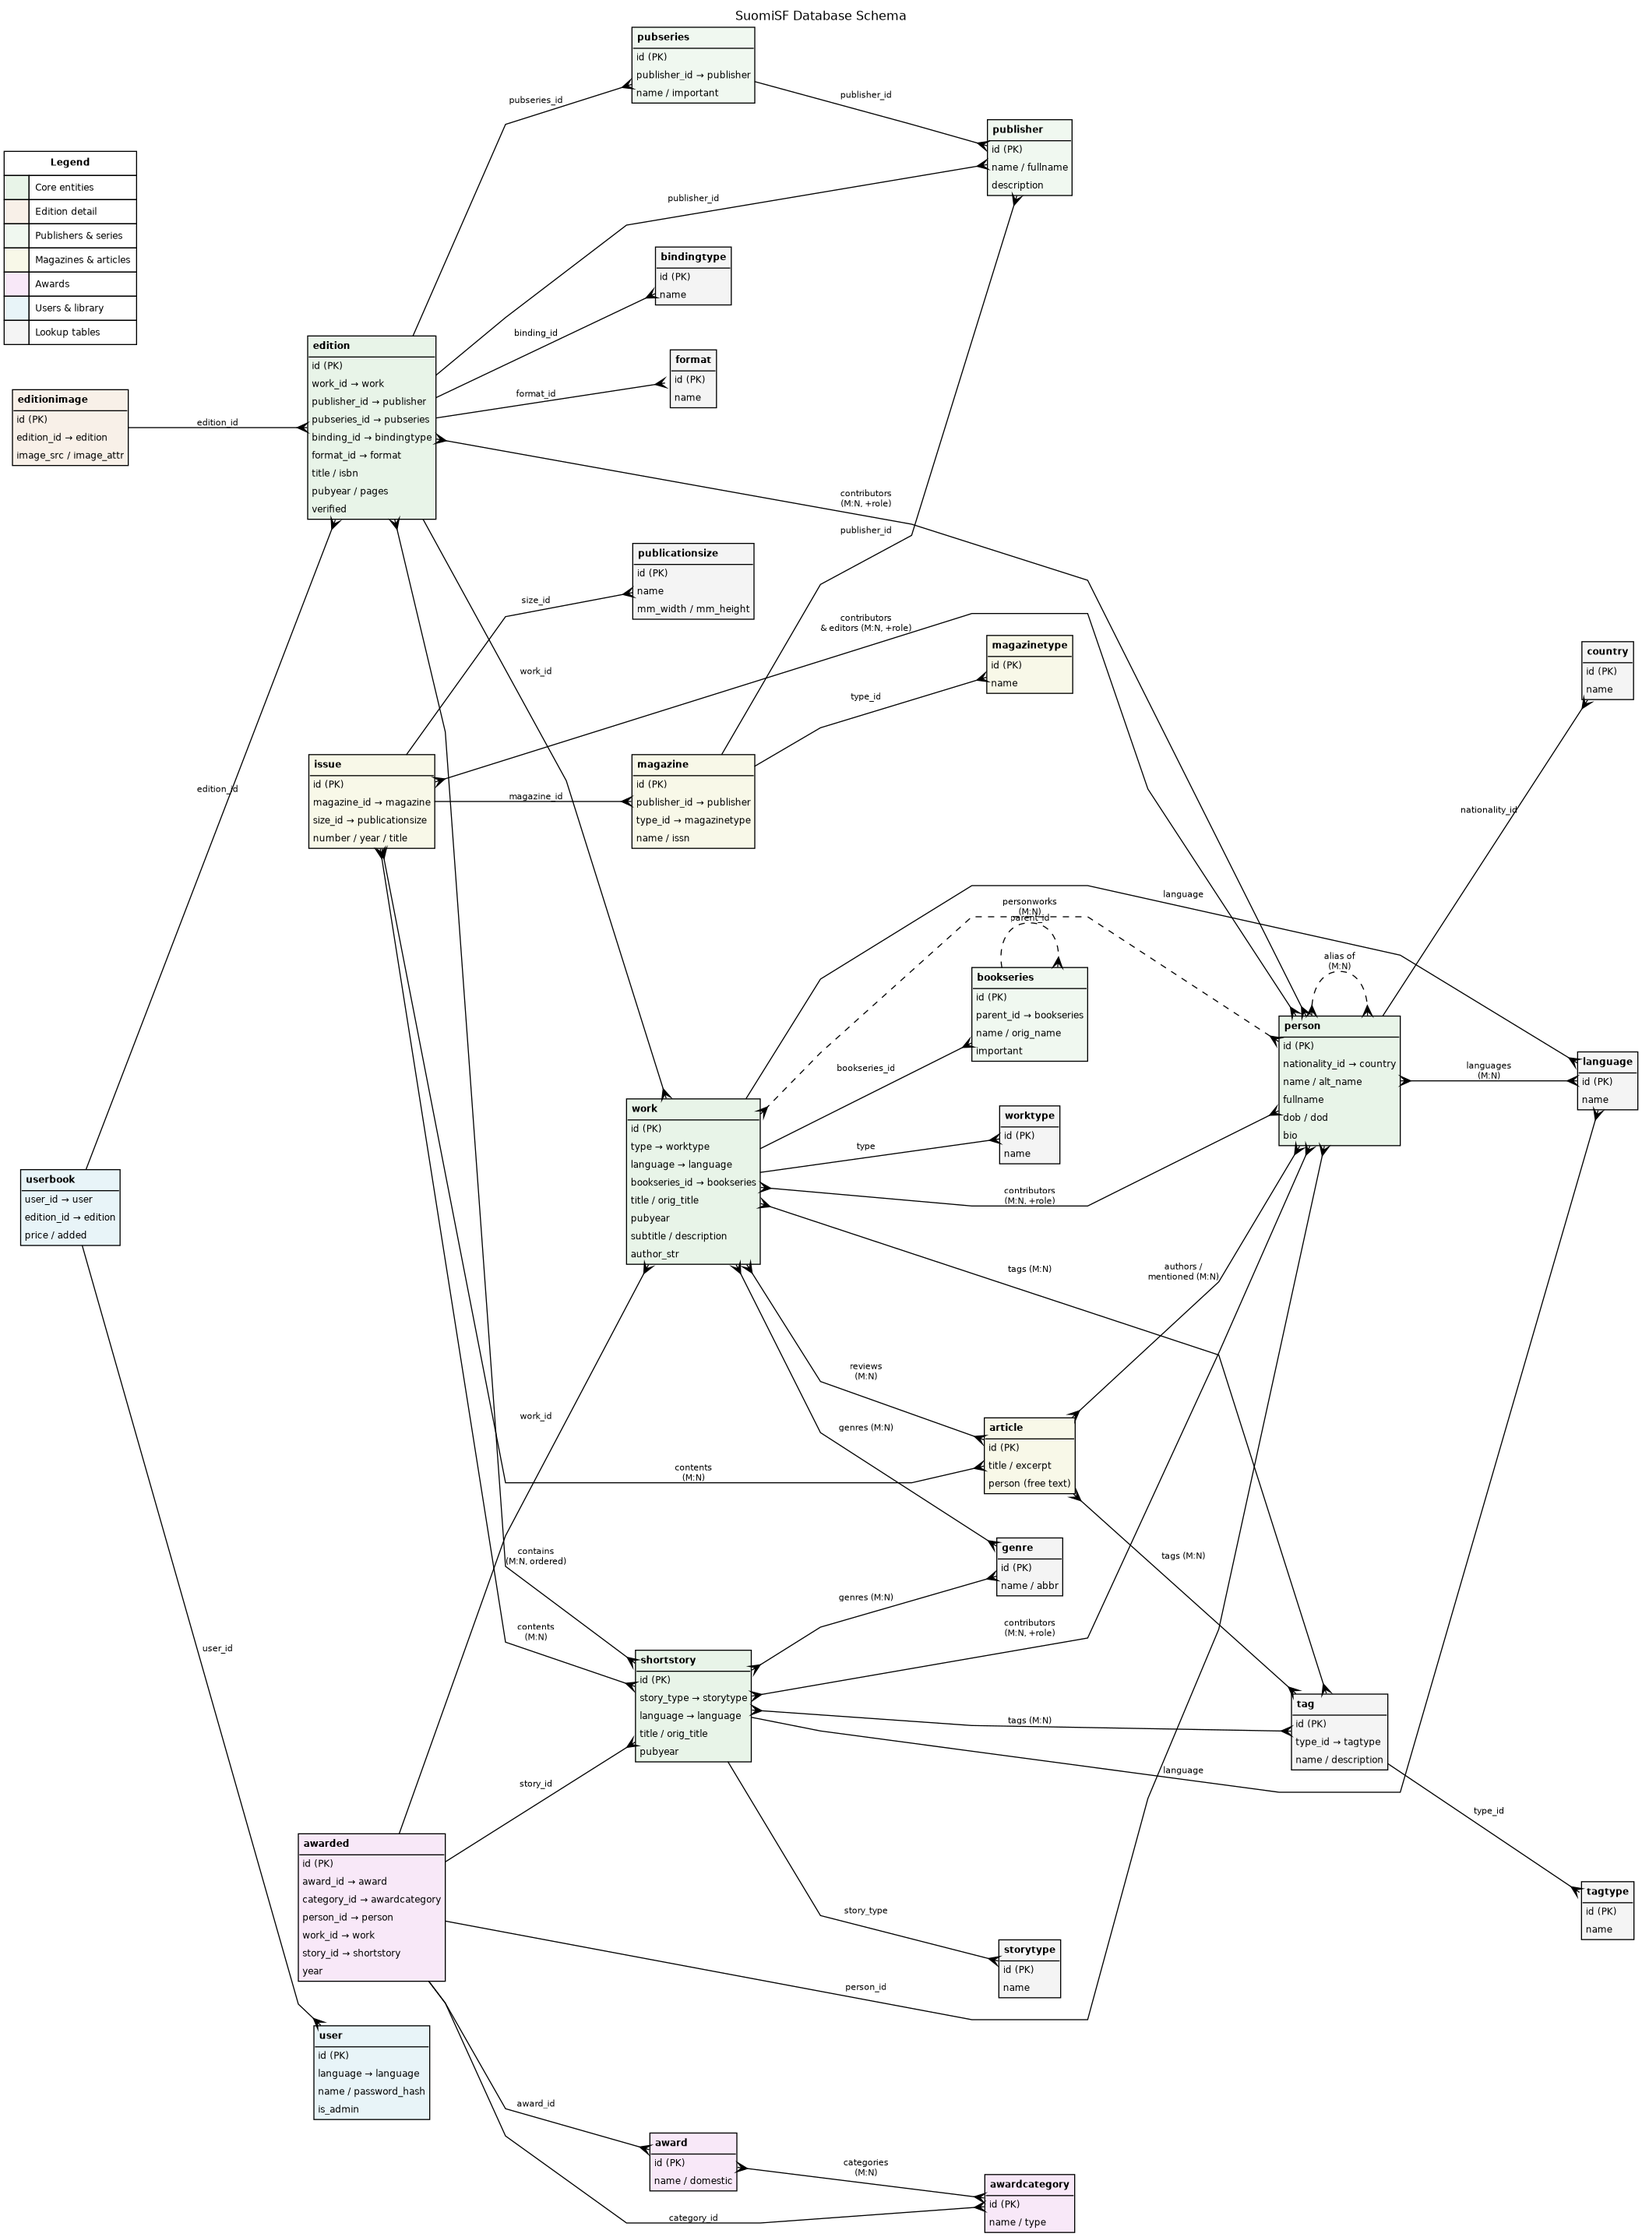
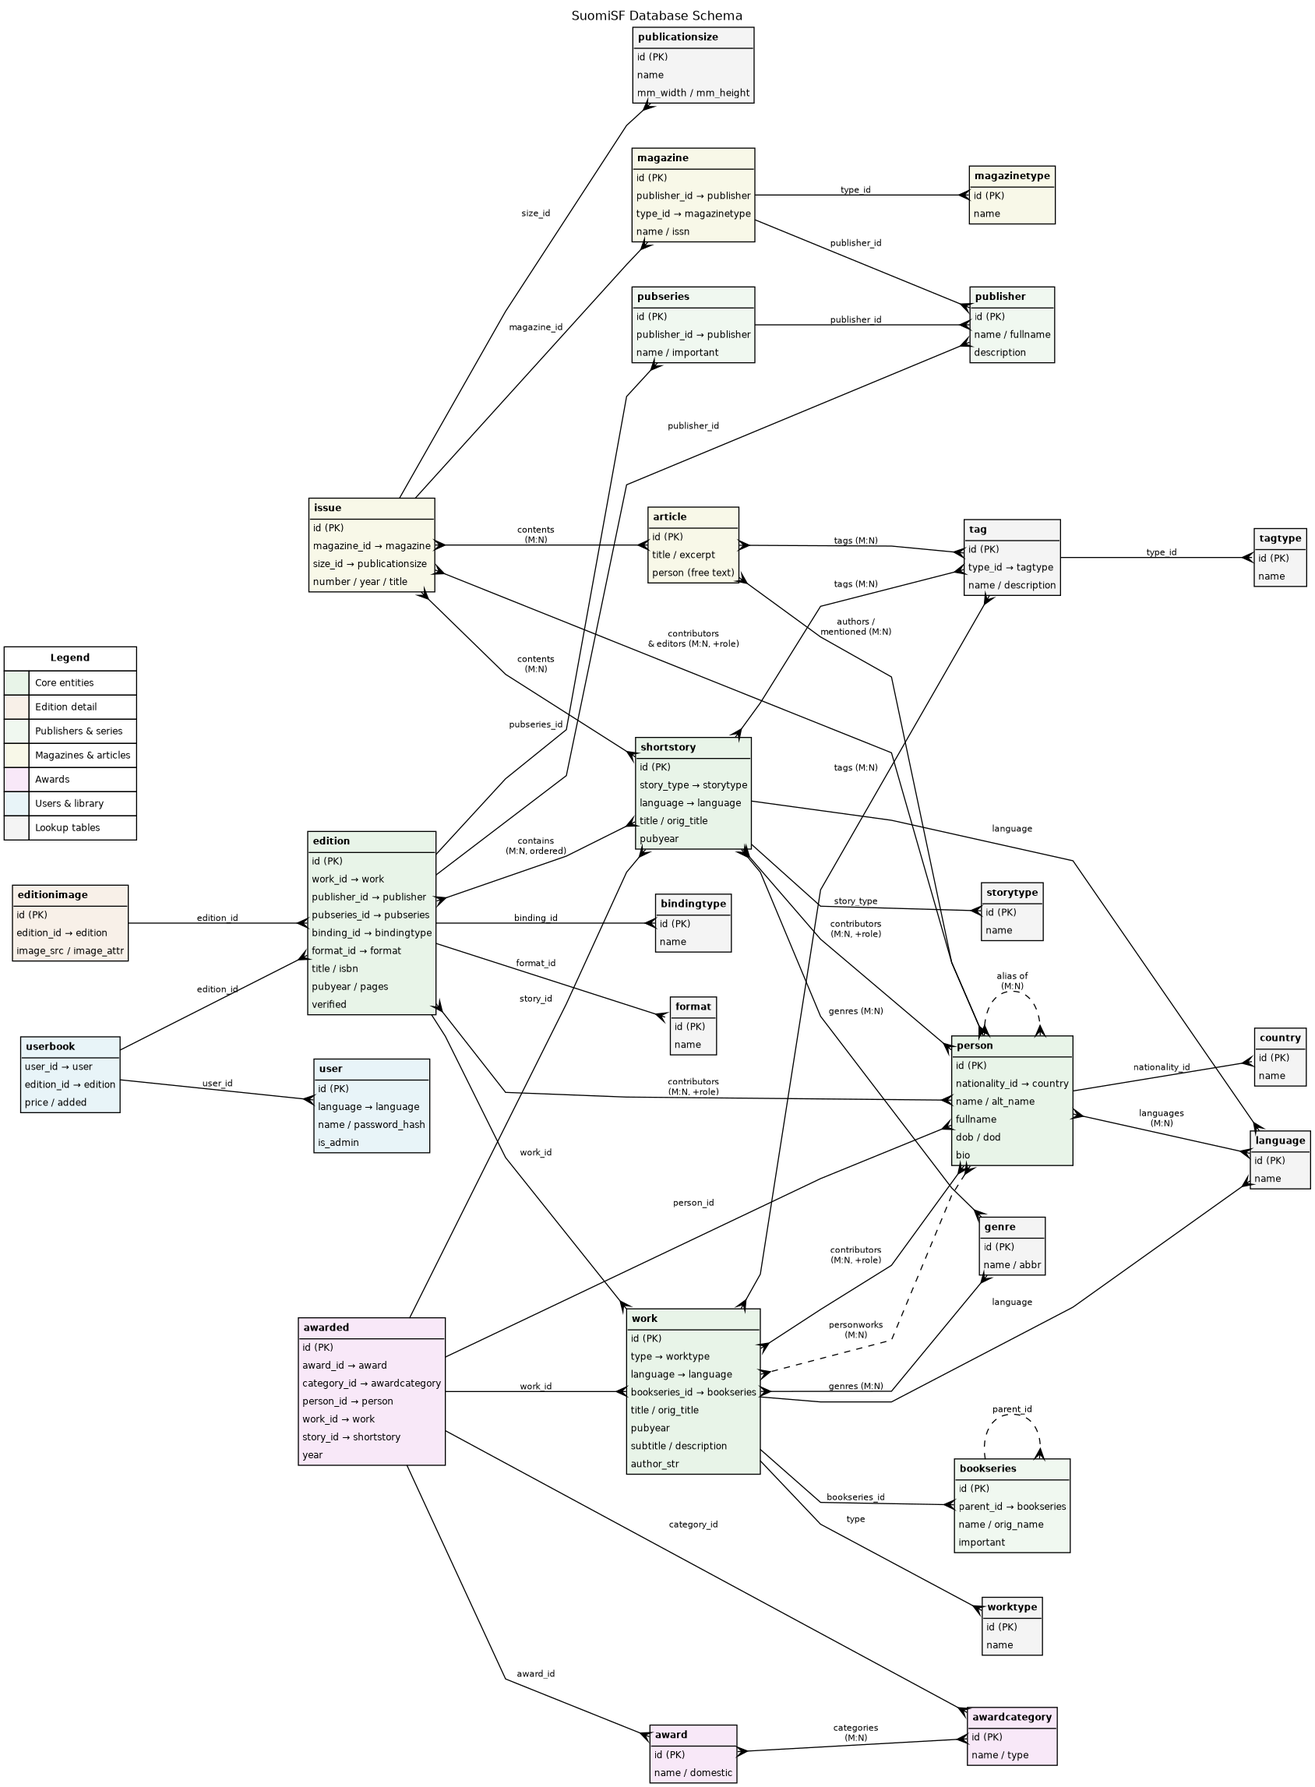
Remove workreview edge from ER diagram
The work↔article (reviews) M:N relationship is now omitted from
the diagram for clarity. Documented in DATABASE.md conventions
section and §5 workreview entry.

diff --git a/docs/DATABASE.md b/docs/DATABASE.md
@@ -30,6 +30,7 @@ reduce clutter):
 - `persontag` — person ↔ tag M:N (tags on persons)
 - `issuetag` — issue ↔ tag M:N (tags on issues)
 - `magazinetag` — magazine ↔ tag M:N (tags on magazines)
+- `workreview` — work ↔ article M:N (articles that review a work)
 - `user.language_id` → `language` FK (UI language preference)
 
 ---
@@ -277,8 +278,8 @@ Both link articles to persons. `articleauthor` records the authors;
 
 ### `workreview` (M:N junction)
 
-Links a `work` to an `article` that reviews it. Shown as the
-"reviews (M:N)" edge from `work` to `article` in the diagram.
+Links a `work` to an `article` that reviews it. Not shown in
+diagram.
 
 ---
 
